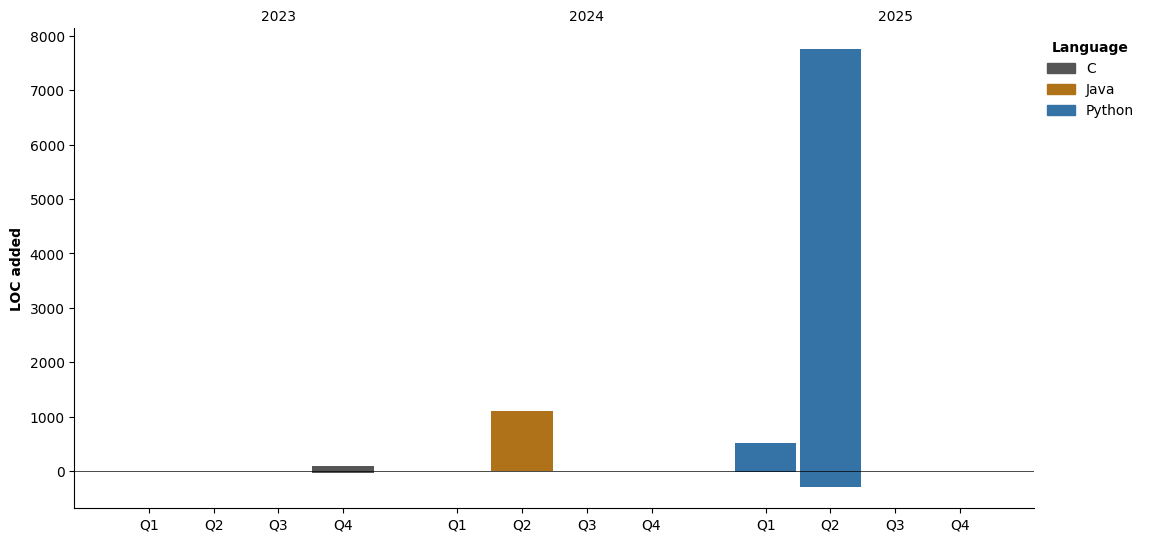
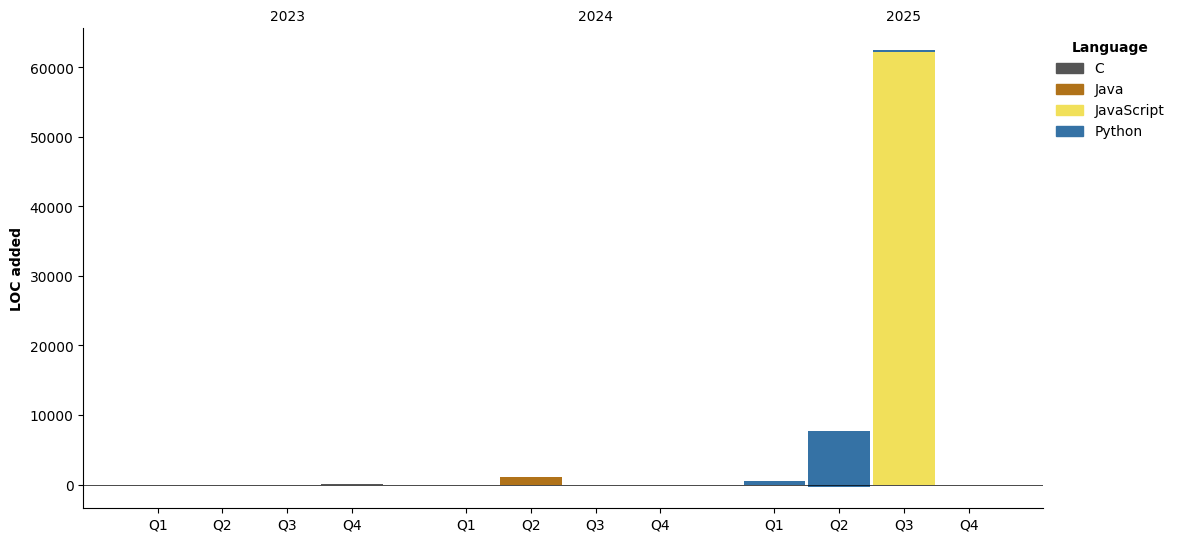
📊 Update WakaTime stats

diff --git a/README.md b/README.md
@@ -38,16 +38,79 @@
 ## 📈 GitHub Stats
 
 <!--START_SECTION:waka-->
+![Code Time](http://img.shields.io/badge/Code%20Time-1%20hr%2024%20mins-blue)
 
-```txt
-From: 30 June 2025 - To: 07 July 2025
+![Profile Views](http://img.shields.io/badge/Profile%20Views-161-blue)
 
-Total Time: 7 mins
+**🐱 My GitHub Data** 
 
-YAML       7 mins          ████████████████████████▓   98.96 %
-Markdown   0 secs          ▒░░░░░░░░░░░░░░░░░░░░░░░░   01.04 %
+> 📦 ? Used in GitHub's Storage 
+ > 
+> 🏆 134 Contributions in the Year 2025
+ > 
+> 💼 Opted to Hire
+ > 
+> 📜 8 Public Repositories 
+ > 
+> 🔑 0 Private Repositories 
+ > 
+**I'm a Night 🦉** 
+
+```text
+🌞 Morning                9 commits           █░░░░░░░░░░░░░░░░░░░░░░░░   04.92 % 
+🌆 Daytime                61 commits          ████████░░░░░░░░░░░░░░░░░   33.33 % 
+🌃 Evening                90 commits          ████████████░░░░░░░░░░░░░   49.18 % 
+🌙 Night                  23 commits          ███░░░░░░░░░░░░░░░░░░░░░░   12.57 % 
+```
+📅 **I'm Most Productive on Tuesday** 
+
+```text
+Monday                   29 commits          ████░░░░░░░░░░░░░░░░░░░░░   15.85 % 
+Tuesday                  46 commits          ██████░░░░░░░░░░░░░░░░░░░   25.14 % 
+Wednesday                18 commits          ██░░░░░░░░░░░░░░░░░░░░░░░   09.84 % 
+Thursday                 31 commits          ████░░░░░░░░░░░░░░░░░░░░░   16.94 % 
+Friday                   16 commits          ██░░░░░░░░░░░░░░░░░░░░░░░   08.74 % 
+Saturday                 17 commits          ██░░░░░░░░░░░░░░░░░░░░░░░   09.29 % 
+Sunday                   26 commits          ████░░░░░░░░░░░░░░░░░░░░░   14.21 % 
 ```
 
+
+📊 **This Week I Spent My Time On** 
+
+```text
+🕑 Time Zone: Asia/Kolkata
+
+💬 Programming Languages: 
+YAML                     7 mins              █████████████████████████   98.96 % 
+Markdown                 0 secs              ░░░░░░░░░░░░░░░░░░░░░░░░░   01.04 % 
+
+🔥 Editors: 
+VS Code                  7 mins              █████████████████████████   100.00 % 
+
+🐱💻 Projects: 
+Sunil0620                7 mins              █████████████████████████   100.00 % 
+
+💻 Operating System: 
+Mac                      7 mins              █████████████████████████   100.00 % 
+```
+
+**I Mostly Code in Python** 
+
+```text
+Python                   3 repos             ████████████░░░░░░░░░░░░░   50.00 % 
+JavaScript               1 repo              ████░░░░░░░░░░░░░░░░░░░░░   16.67 % 
+Java                     1 repo              ████░░░░░░░░░░░░░░░░░░░░░   16.67 % 
+C                        1 repo              ████░░░░░░░░░░░░░░░░░░░░░   16.67 % 
+```
+
+
+
+**Timeline**
+
+![Lines of Code chart](https://raw.githubusercontent.com/Sunil0620/Sunil0620/main/assets/bar_graph.png)
+
+
+ Last Updated on 07/07/2025 19:46:51 UTC
 <!--END_SECTION:waka-->
 
 <div align="center">
